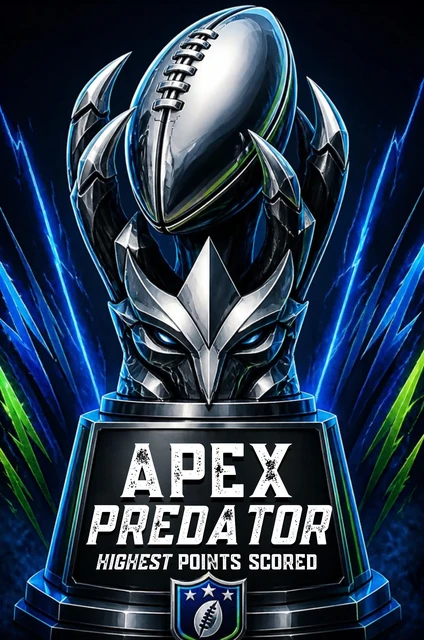
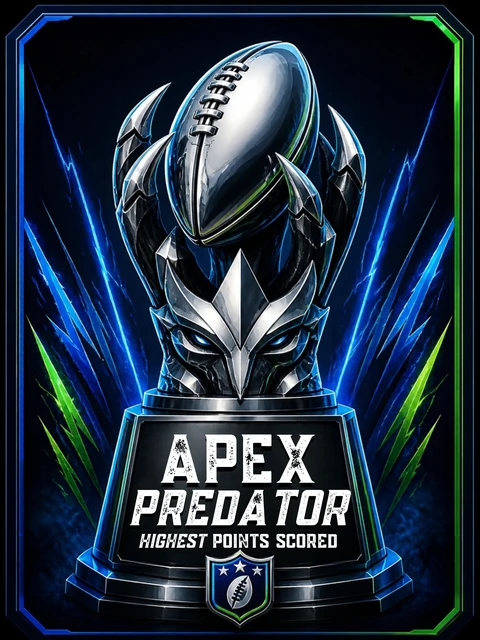
better assets for trophies

diff --git a/scripts/trophies.py b/scripts/trophies.py
@@ -19,8 +19,8 @@ TROPHIES = {
     # key:          (file,           label,              what it is for,                 full (w, h),   small (w, h))
     "lombardi":     ("lombardi",     "Lombardi Trophy",  "League champion",              (351, 640),    (132, 240)),
     "toilet_bowl":  ("toilet-bowl",  "Toilet Bowl Trophy", "Toilet Bowl (last-place bracket)", (353, 640), (132, 240)),
-    "silver_cup":   ("silver-cup",   "Silver Cup",       "Championship runner-up",       (356, 640),    (133, 240)),
-    "apex_predator": ("apex-predator", "Apex Predator",  "Highest points scored (PF)",   (424, 640),    (159, 240)),
+    "silver_cup":   ("silver-cup",   "Silver Cup",       "Championship runner-up",       (480, 640),    (180, 240)),
+    "apex_predator": ("apex-predator", "Apex Predator",  "Highest points scored (PF)",   (480, 640),    (180, 240)),
     "best_manager": ("best-manager", "Best Manager",     "Best Manager award",           (435, 640),    (163, 240)),
     "biggest_tank": ("biggest-tank", "Biggest Tank",     "Biggest Tank award",           (437, 640),    (164, 240)),
     "waiver_mvp":   ("waiver-mvp",   "Waiver Wire MVP",  "Waiver Wire MVP award",        (438, 640),    (164, 240)),
